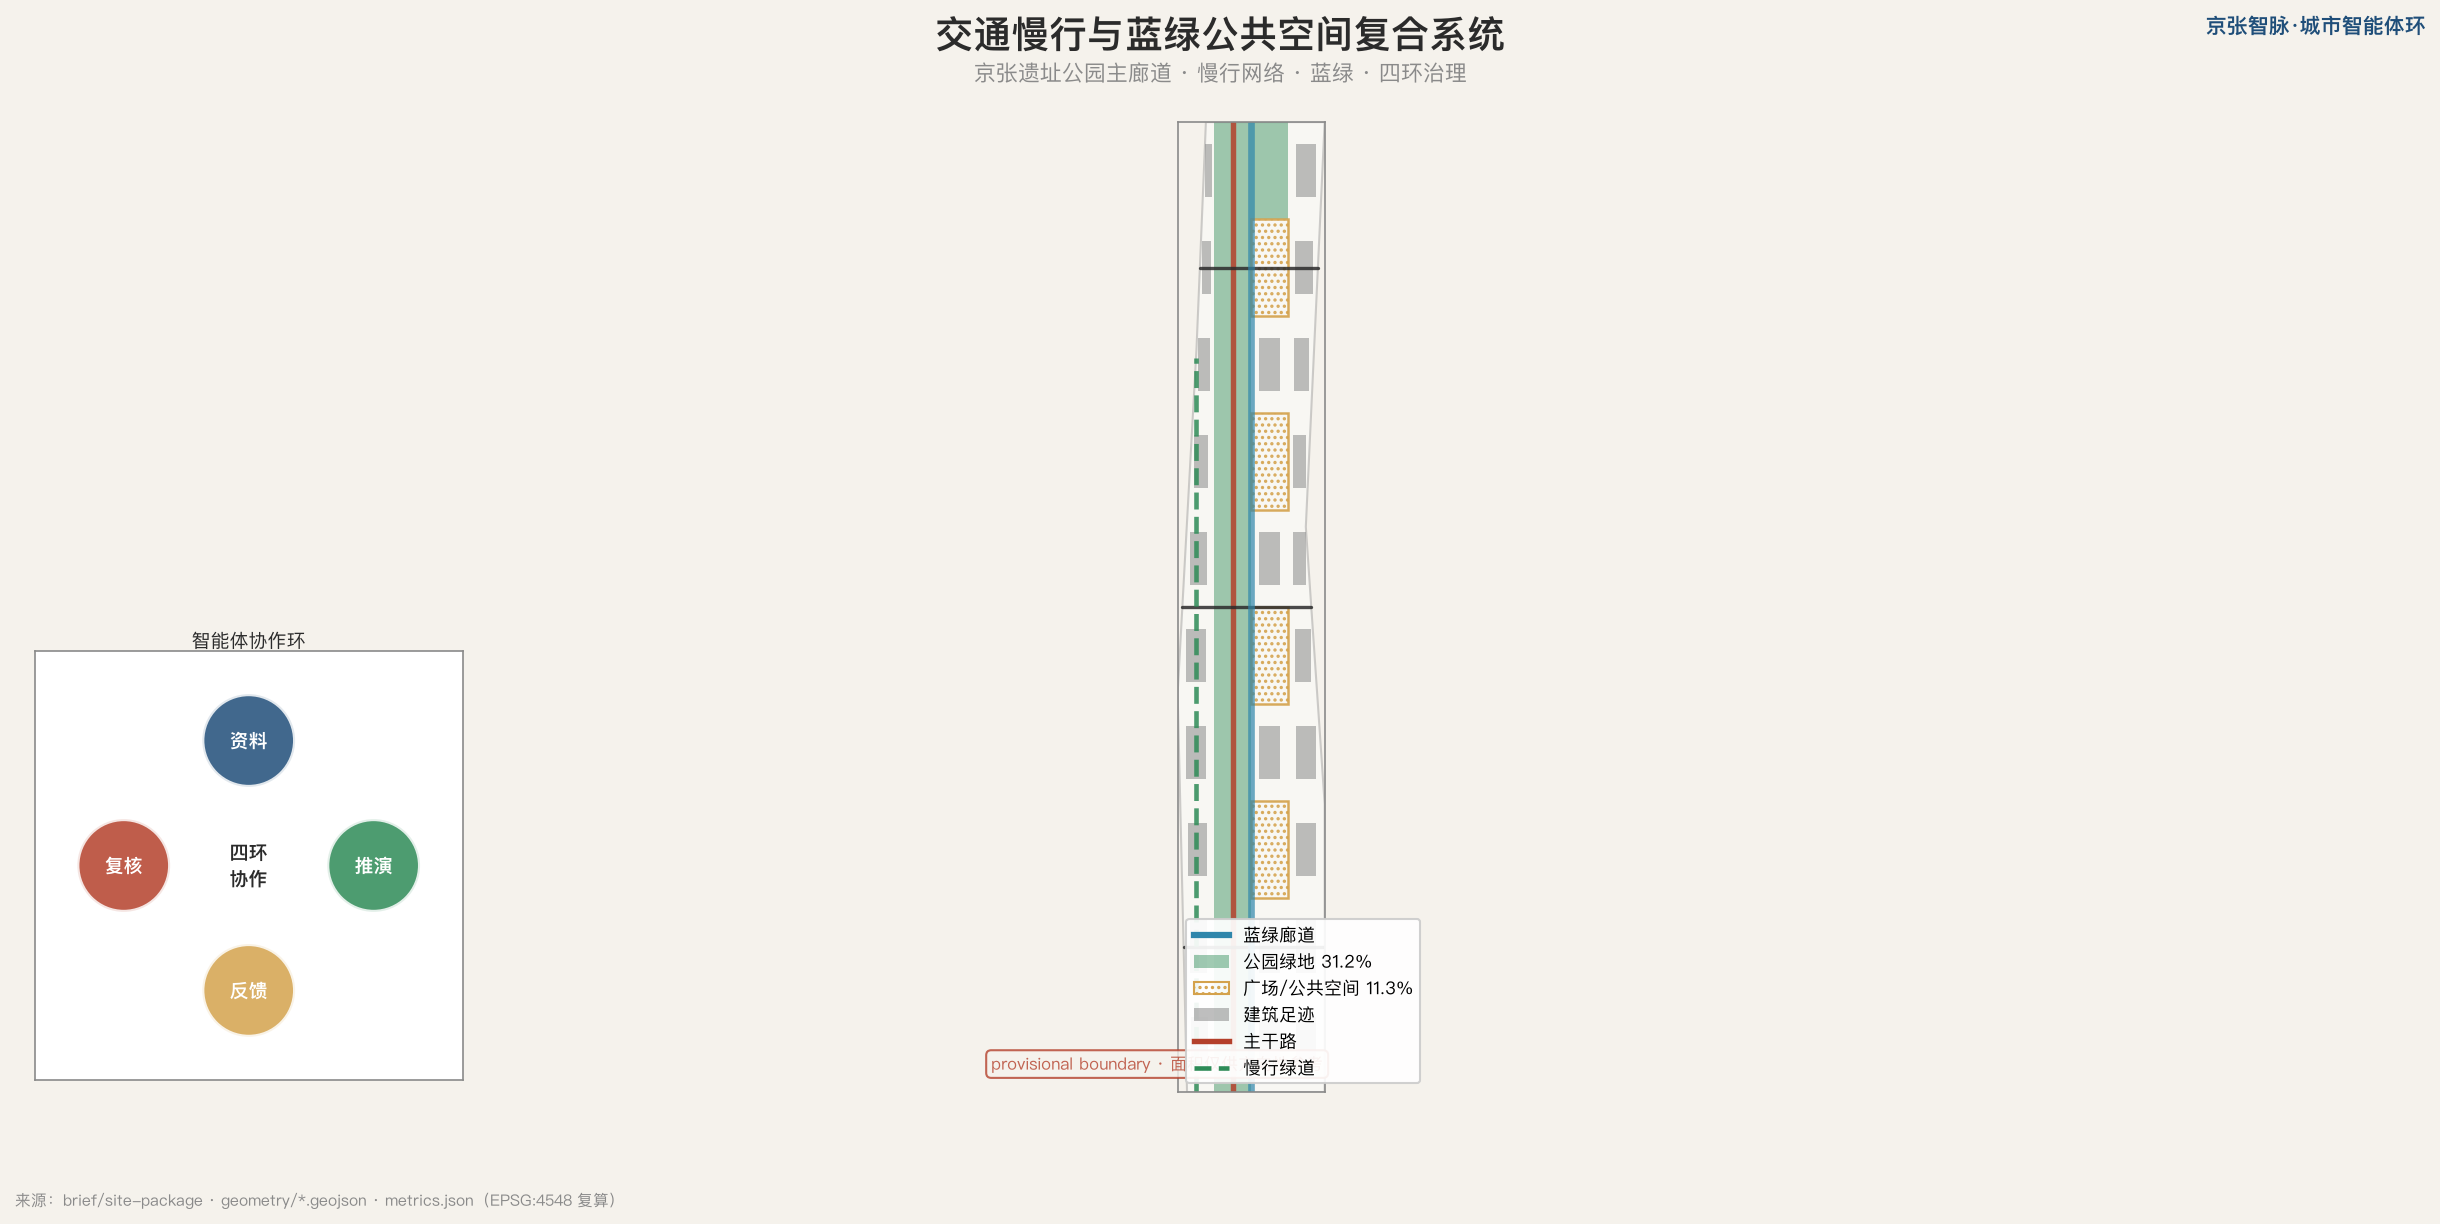
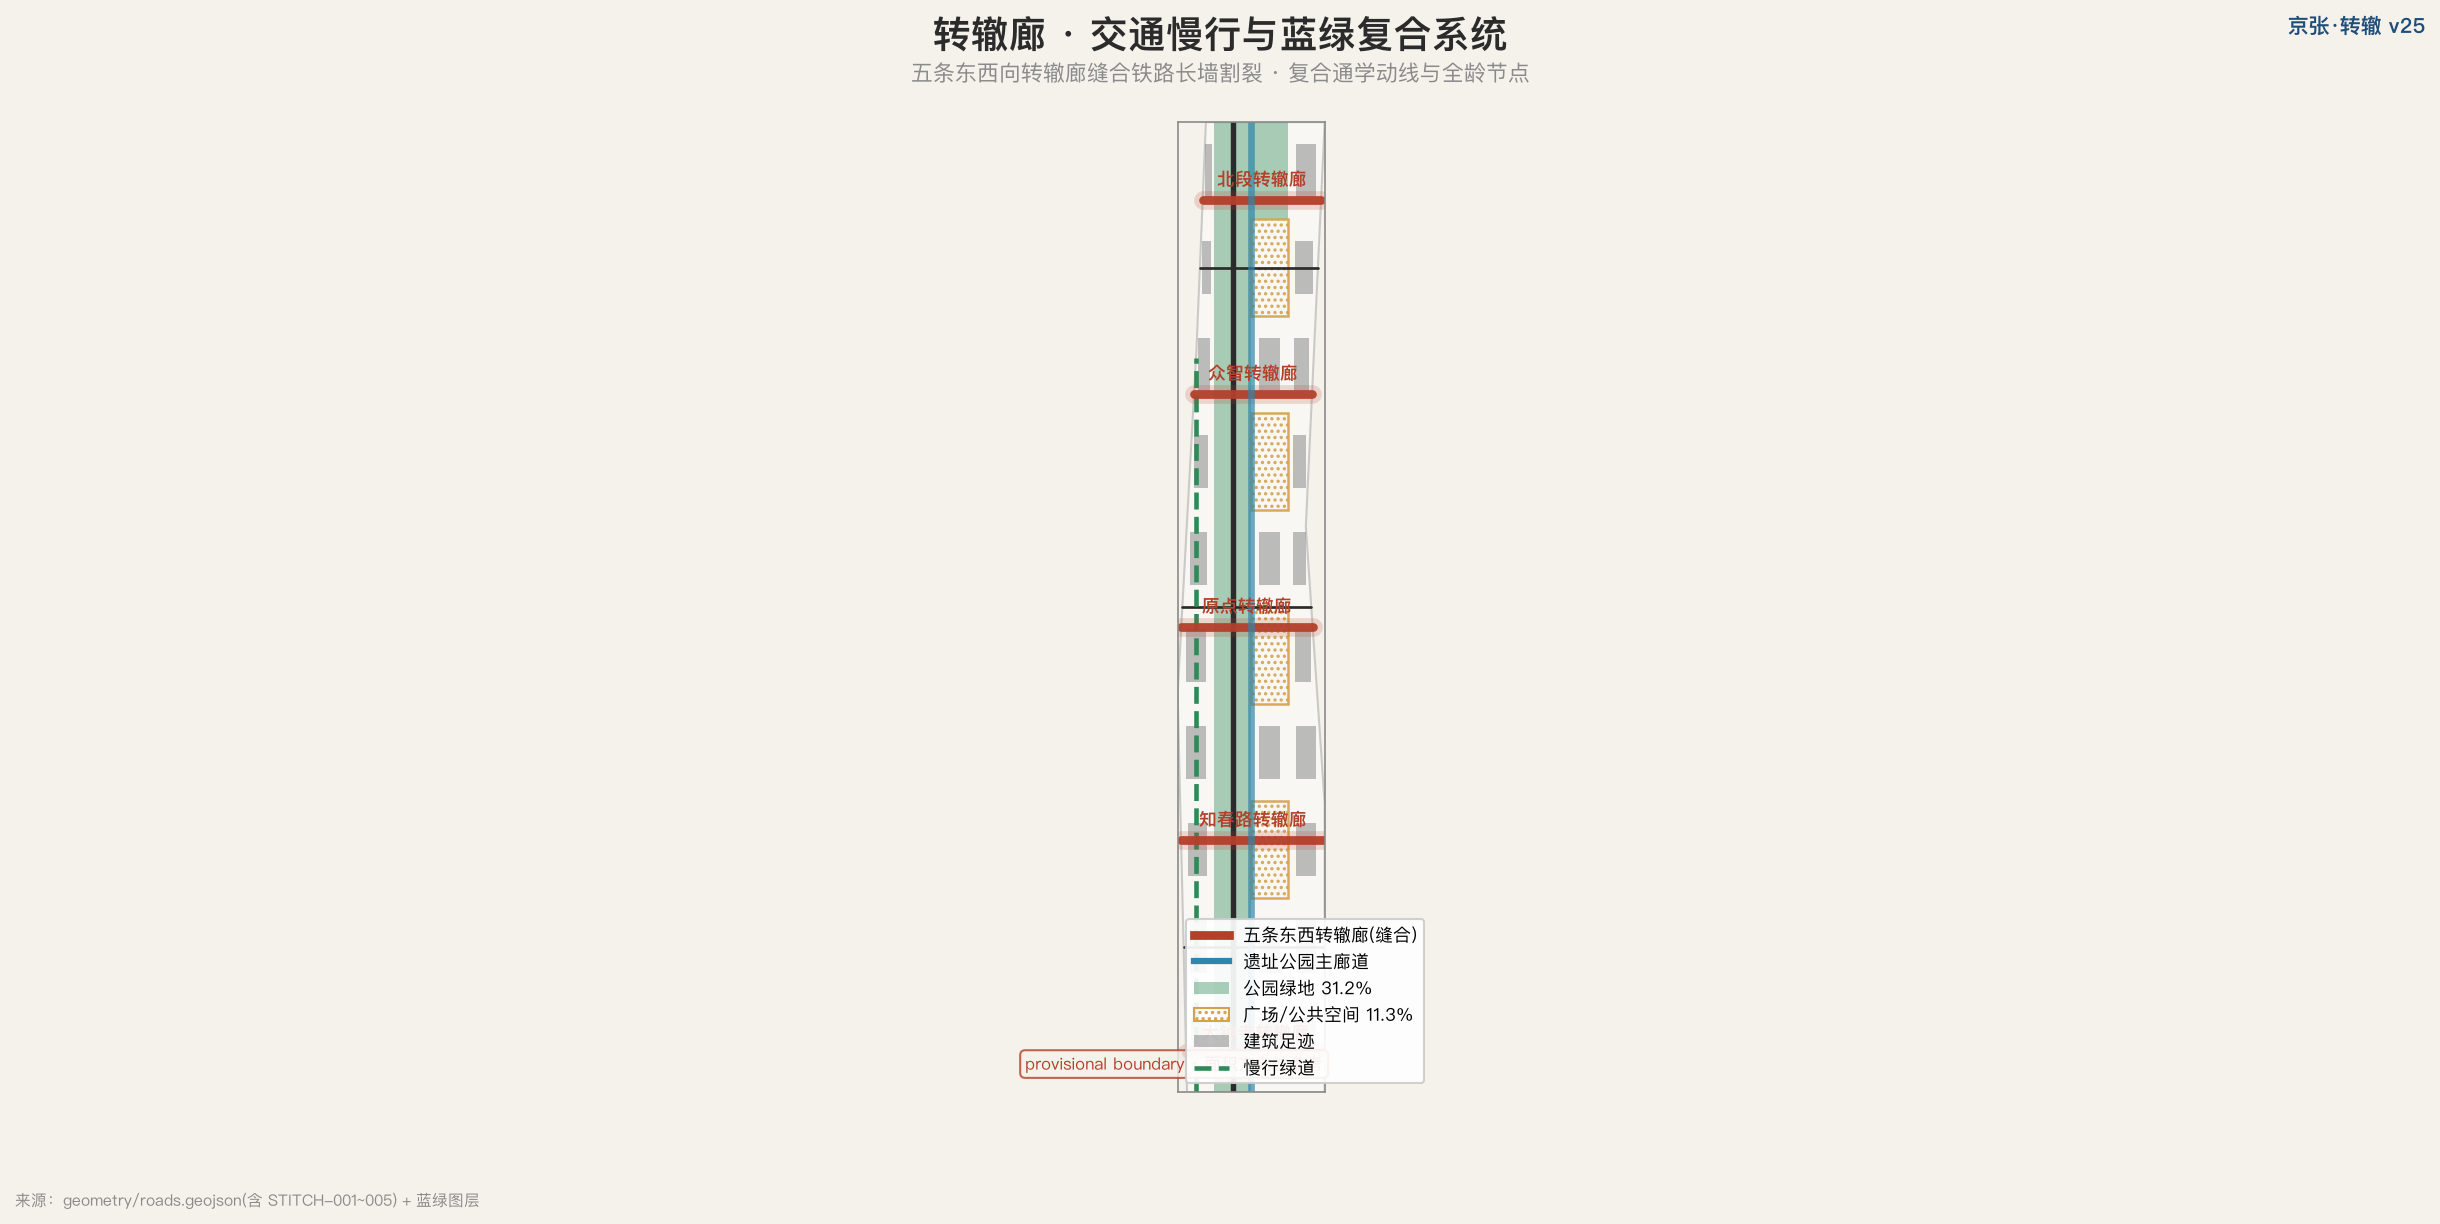
feat(submissions): 京张·转辙 v25 — mobility 图转辙廊高亮重绘
重绘交通蓝绿图:五条转辙廊为最重视觉元素(粗红横线+逐廊标注名),复合通学动线与全龄节点;图例更新。metrics +1 共 51 项,四重 PASS。

diff --git a/submissions/xiaofenggan01/jingzhang-civic-agent-loop/report/proposal.html b/submissions/xiaofenggan01/jingzhang-civic-agent-loop/report/proposal.html
@@ -124,7 +124,7 @@ code {
 <p>每个地块与建筑足迹在 renewal_action 与 governance_ring 之外再挂三个物质面字段 <code><span class="evidence evidence-metric">[metric:material_traceability_field_count]</span></code>：material_origin（材料优先本地 / 再生的设计承诺）、carbon_audit_required（碳边界审计要求——不捏造碳数据，只立审计制度）、maintenance_contributors（保洁 / 安保 / 绿化养护 / 网格巡查四类维护贡献者署名）。这把「公共贡献账本」从 agent 行为层**下沉到空间对象的物质层** <code><span class="evidence evidence-data">[data:geometry/land_use.geojson#LU-090]</span></code> <code><span class="evidence evidence-data">[data:geometry/buildings.geojson]</span></code>，让隐形劳动在数据层被署名。</p>
 <p>建筑规模与拆改留遵循「保留先行、改造为主、谨慎拆除、复合新建」<code><span class="evidence evidence-depth">[depth:retain_renovate_demolish]</span></code>：现状科研与教育建筑优先保留与改造提升，新增建筑足迹集中在科研、文化、教育、居住与社区服务用地 <code><span class="evidence evidence-data">[data:geometry/buildings.geojson]</span></code>，建筑基底约 2083289.604 平方米 <code><span class="evidence evidence-metric">[metric:building_footprint_area_sqm]</span></code>。开发强度受限于 site-package 中容积率、建筑高度、密度、绿地率（控规）与退让五项均 missing <code><span class="evidence evidence-depth">[depth:development_intensity_controls]</span></code>，本方案不给出具体数值。建筑基底、拆改留分类与开发强度均属概念建议，待官方控规与现状建筑、权属资料公开后由专业团队复核。</p>
 <h2>交通、轨道、市政与公共服务设施</h2>
-<p>交通组织回应公告对轨道接驳、慢行断点、无障碍与新型基础设施的要求 <code><span class="evidence evidence-depth">[depth:traffic_rail_slow_parking]</span></code>。本方案以京张铁路遗址公园为南北慢行主廊道，串联三重点区，布设横向联系道路缝合东西 <code><span class="evidence evidence-data">[data:geometry/roads.geojson]</span></code>。针对铁路长墙的百年东西割裂，本方案布设五条**东西向转辙廊** <code><span class="evidence evidence-metric">[metric:stitch_corridor_count]</span></code> <code><span class="evidence evidence-data">[data:geometry/roads.geojson#STITCH-001]</span></code>——转辙器把列车从一股道转到另一股道，转辙廊把人流从铁路西侧转到东侧：大钟寺、知春路、原点、众智、北段各一条 <code><span class="evidence evidence-data">[data:geometry/roads.geojson#STITCH-003]</span></code>，廊道同时承载慢行、公共空间与 AI 场景，并复合**通学安全动线**（沿线 10 余所高校与社区中小学的儿童友好路径，五廊全覆盖 <code><span class="evidence evidence-metric">[metric:child_friendly_route_count]</span></code>）与**全龄节点**（每廊 2 处适老适幼游戏与看护节点，共 <code><span class="evidence evidence-metric">[metric:all_age_node_count]</span></code> 处） <code><span class="evidence evidence-data">[data:geometry/roads.geojson]</span></code>。慢行系统以「可达、可停、可换乘」为标准；自动驾驶接驳、机器人配送与无人巡检只在明确边界、低速、可监管的公开试点范围讨论，并为服务劳动者预留低速驿站与设备充电接口。### 无障碍工程制度</p>
+<p>交通组织回应公告对轨道接驳、慢行断点、无障碍与新型基础设施的要求 <code><span class="evidence evidence-depth">[depth:traffic_rail_slow_parking]</span></code>。本方案以京张铁路遗址公园为南北慢行主廊道，串联三重点区，布设横向联系道路缝合东西 <code><span class="evidence evidence-data">[data:geometry/roads.geojson]</span></code>。针对铁路长墙的百年东西割裂，本方案布设五条**东西向转辙廊** <code><span class="evidence evidence-metric">[metric:stitch_corridor_count]</span></code>（mobility 图逐廊标注 <code><span class="evidence evidence-metric">[metric:stitch_corridor_map_annotation_count]</span></code>） <code><span class="evidence evidence-data">[data:geometry/roads.geojson#STITCH-001]</span></code>——转辙器把列车从一股道转到另一股道，转辙廊把人流从铁路西侧转到东侧：大钟寺、知春路、原点、众智、北段各一条 <code><span class="evidence evidence-data">[data:geometry/roads.geojson#STITCH-003]</span></code>，廊道同时承载慢行、公共空间与 AI 场景，并复合**通学安全动线**（沿线 10 余所高校与社区中小学的儿童友好路径，五廊全覆盖 <code><span class="evidence evidence-metric">[metric:child_friendly_route_count]</span></code>）与**全龄节点**（每廊 2 处适老适幼游戏与看护节点，共 <code><span class="evidence evidence-metric">[metric:all_age_node_count]</span></code> 处） <code><span class="evidence evidence-data">[data:geometry/roads.geojson]</span></code>。慢行系统以「可达、可停、可换乘」为标准；自动驾驶接驳、机器人配送与无人巡检只在明确边界、低速、可监管的公开试点范围讨论，并为服务劳动者预留低速驿站与设备充电接口。### 无障碍工程制度</p>
 <p>本方案的无障碍不止于通道，而是可验收的工程制度：**盲道连贯率**采用月度盲测口径（不测瞬时状态）、**修复导向 KPI**（工单平均处置时长 + 复检合格率）、占用类型 × 责任单位 × 处置时限 × 核查方式**接单责任矩阵**（落入既有接诉即办 / 网格平台，不自建派单）、**开源触觉模型库**（符号化派生模型 + 验收测试卡 + 版本召回），以及店铺功能牌考核“盲文与实际业态一致率”而非挂牌率；无障碍连贯率监测作为场景卡 13 落地 <code><span class="evidence evidence-metric">[metric:accessibility_checkpoint_count]</span></code>。</p>
 <p>轨道站点一体化强化站点与重点区、公共空间的步行衔接，具体线位与站点属工程范畴，本方案不给最终结论。</p>
 <p>**算力与能源审计制度**：全部科研用地（0802）地块挂分级算力配额（tiered_priority：公共服务 &gt; 科研 &gt; 商用）、能耗审计要求与绿电/余热优先制度 <code><span class="evidence evidence-metric">[metric:compute_governance_parcel_count]</span></code> <code><span class="evidence evidence-metric">[metric:energy_audit_field_count]</span></code>——不捏造能耗数值，只立审计制度与配额优先级，数值由 G4 受控测试阶段实测后回填。市政与新型基础设施采用「端侧算力 + 分布式能源 + 传统市政融合」<code><span class="evidence evidence-depth">[depth:municipal_new_infrastructure]</span></code>，众智园布局算力与数据中心配套，公共空间与建筑屋顶布局分布式能源与雨水回收。公共服务设施围绕七类用户画像配置 AI+医疗健康导航、AI+教育文化导览、AI+法律与企业服务咨询与人才生活服务，所有服务保留**数字 + 人工 + 纸质 / 静态替代**三通道回退（场景卡 12），确保数字包容与适老化，数据来源限定公开或授权聚合。</p>

diff --git a/submissions/xiaofenggan01/jingzhang-civic-agent-loop/proposal.md b/submissions/xiaofenggan01/jingzhang-civic-agent-loop/proposal.md
@@ -6,7 +6,7 @@ license: "COMMUNITY-DISPLAY-ONLY"
 summary: "以铁路转辙器为母题（转辙即路由决策即 agent 编排），把四环协作（资料/推演/反馈/复核）落成机器可读治理制品——Civic Agent Receipt 收据 + G0-G6 门闸状态机 + 验线四步。环会自转：每次干预可审计、可回滚、可证伪。所有空间建议为开放共创建议，不替代正式规划。"
 tracks: ["civic-agent-governance", "ai-public-services", "jingzhang-heritage-narrative"]
 scenarios: ["ai-cultural-guide", "ai-health-service-navigation", "ai-traffic-walkability"]
-iteration: "v24.0"
+iteration: "v25.0"
 ---
 
 # 京张·转辙 · 城市智能体验证带
@@ -101,7 +101,7 @@ iteration: "v24.0"
 
 ## 交通、轨道、市政与公共服务设施
 
-交通组织回应公告对轨道接驳、慢行断点、无障碍与新型基础设施的要求 `[depth:traffic_rail_slow_parking]`。本方案以京张铁路遗址公园为南北慢行主廊道，串联三重点区，布设横向联系道路缝合东西 `[data:geometry/roads.geojson]`。针对铁路长墙的百年东西割裂，本方案布设五条**东西向转辙廊** `[metric:stitch_corridor_count]` `[data:geometry/roads.geojson#STITCH-001]`——转辙器把列车从一股道转到另一股道，转辙廊把人流从铁路西侧转到东侧：大钟寺、知春路、原点、众智、北段各一条 `[data:geometry/roads.geojson#STITCH-003]`，廊道同时承载慢行、公共空间与 AI 场景，并复合**通学安全动线**（沿线 10 余所高校与社区中小学的儿童友好路径，五廊全覆盖 `[metric:child_friendly_route_count]`）与**全龄节点**（每廊 2 处适老适幼游戏与看护节点，共 `[metric:all_age_node_count]` 处） `[data:geometry/roads.geojson]`。慢行系统以「可达、可停、可换乘」为标准；自动驾驶接驳、机器人配送与无人巡检只在明确边界、低速、可监管的公开试点范围讨论，并为服务劳动者预留低速驿站与设备充电接口。### 无障碍工程制度
+交通组织回应公告对轨道接驳、慢行断点、无障碍与新型基础设施的要求 `[depth:traffic_rail_slow_parking]`。本方案以京张铁路遗址公园为南北慢行主廊道，串联三重点区，布设横向联系道路缝合东西 `[data:geometry/roads.geojson]`。针对铁路长墙的百年东西割裂，本方案布设五条**东西向转辙廊** `[metric:stitch_corridor_count]`（mobility 图逐廊标注 `[metric:stitch_corridor_map_annotation_count]`） `[data:geometry/roads.geojson#STITCH-001]`——转辙器把列车从一股道转到另一股道，转辙廊把人流从铁路西侧转到东侧：大钟寺、知春路、原点、众智、北段各一条 `[data:geometry/roads.geojson#STITCH-003]`，廊道同时承载慢行、公共空间与 AI 场景，并复合**通学安全动线**（沿线 10 余所高校与社区中小学的儿童友好路径，五廊全覆盖 `[metric:child_friendly_route_count]`）与**全龄节点**（每廊 2 处适老适幼游戏与看护节点，共 `[metric:all_age_node_count]` 处） `[data:geometry/roads.geojson]`。慢行系统以「可达、可停、可换乘」为标准；自动驾驶接驳、机器人配送与无人巡检只在明确边界、低速、可监管的公开试点范围讨论，并为服务劳动者预留低速驿站与设备充电接口。### 无障碍工程制度
 
 本方案的无障碍不止于通道，而是可验收的工程制度：**盲道连贯率**采用月度盲测口径（不测瞬时状态）、**修复导向 KPI**（工单平均处置时长 + 复检合格率）、占用类型 × 责任单位 × 处置时限 × 核查方式**接单责任矩阵**（落入既有接诉即办 / 网格平台，不自建派单）、**开源触觉模型库**（符号化派生模型 + 验收测试卡 + 版本召回），以及店铺功能牌考核“盲文与实际业态一致率”而非挂牌率；无障碍连贯率监测作为场景卡 13 落地 `[metric:accessibility_checkpoint_count]`。
 
